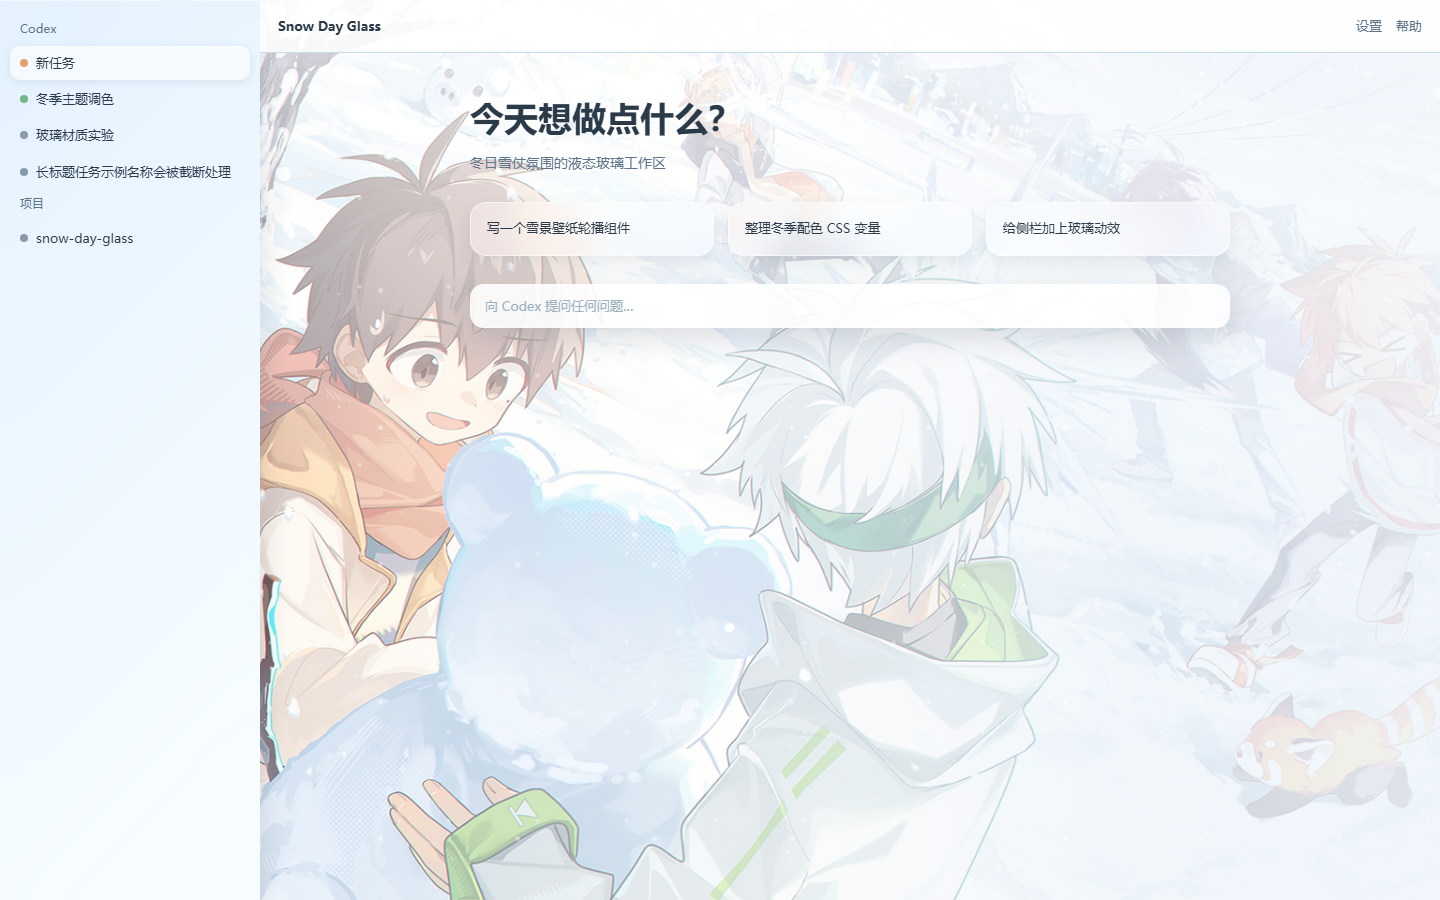
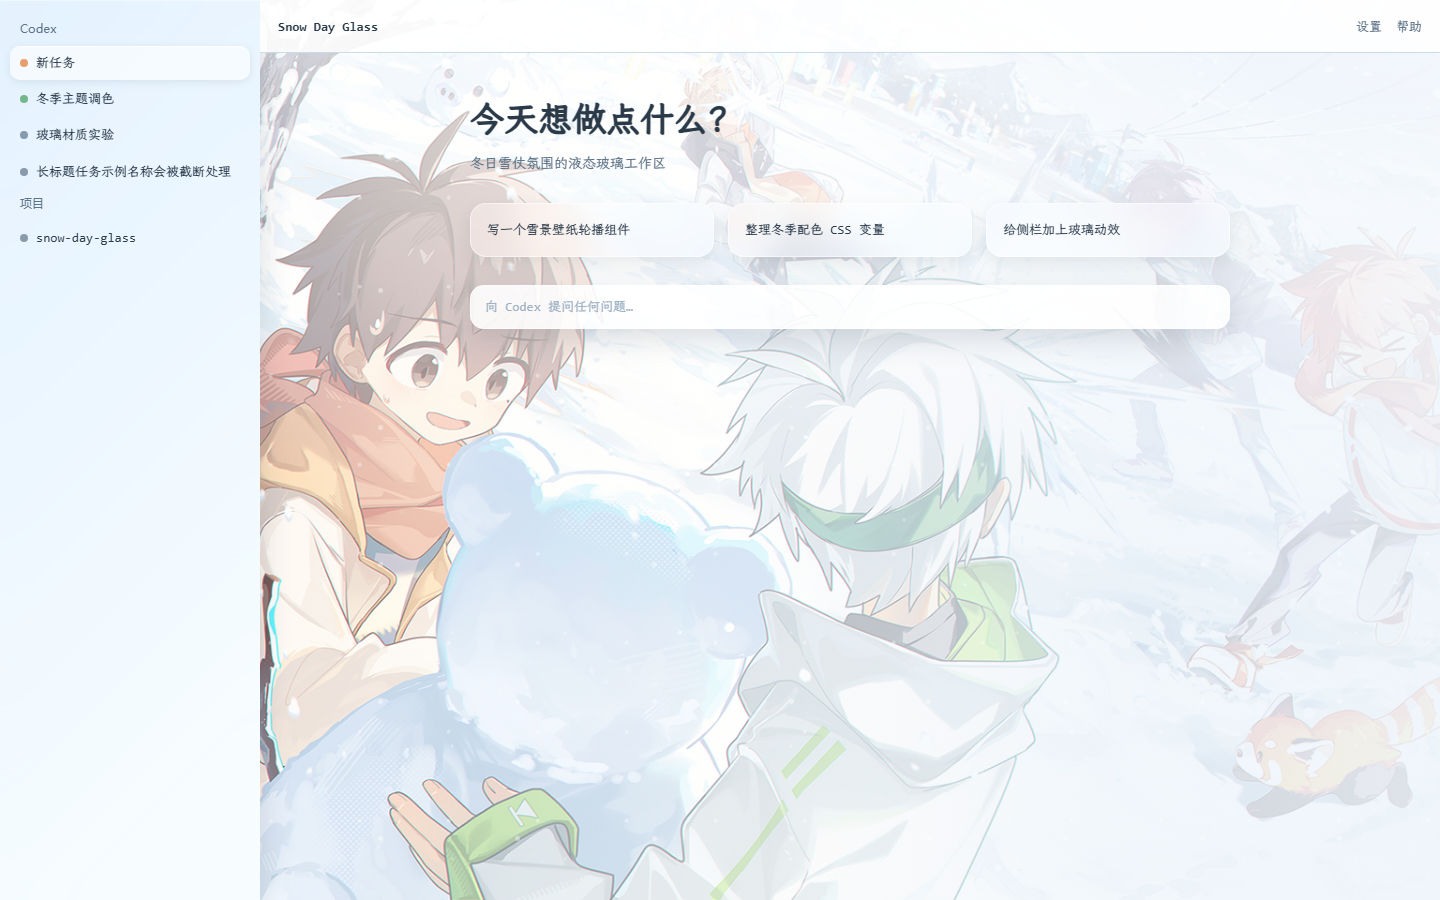
Use Consolas for Latin/digits and LXGW WenKai GB for Chinese

diff --git a/theme.css b/theme.css
@@ -24,8 +24,8 @@
   --lg-blur: 18px;
   --lg-saturation: 160%;
 
-  --ct-font-display: "Avenir Next", "PingFang SC", "Microsoft YaHei UI", sans-serif;
-  --ct-font-body: "Avenir Next", "PingFang SC", "Microsoft YaHei UI", sans-serif;
+  --ct-font-display: "Consolas", "LXGW WenKai GB", "Microsoft YaHei UI", sans-serif;
+  --ct-font-body: "Consolas", "LXGW WenKai GB", "Microsoft YaHei UI", sans-serif;
 
   color-scheme: light;
   --color-background-surface: var(--ct-canvas) !important;

diff --git a/README.md b/README.md
@@ -54,3 +54,6 @@ npx tsx <skill-dir>/scripts/apply-theme.ts restore
 - Background scope: `home` only, with a readability veil over the text area
 - Decor density: rich (layered surfaces, full token sweep, ambient snowfall)
 - Mode: light, matching the high-luminance reference artwork
+- Typography: [Consolas](https://learn.microsoft.com/windows/fonts/font-collection)
+  for Latin text and digits, [LXGW WenKai GB](https://github.com/lxgw/LxgwWenKaiGB)
+  for Chinese, with system fallbacks
